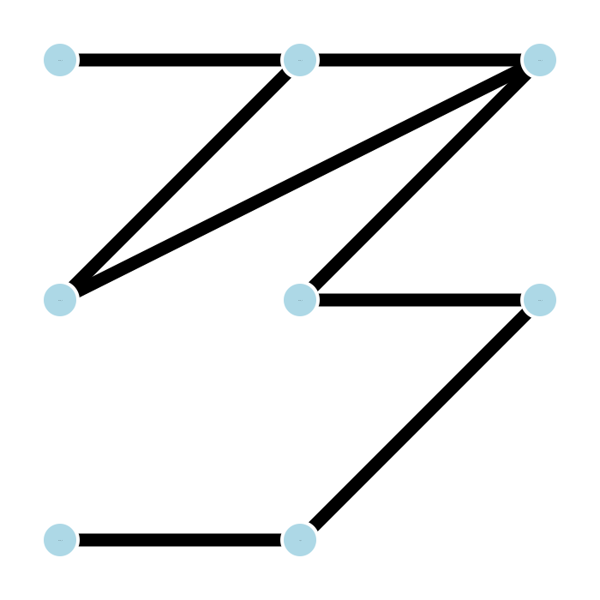
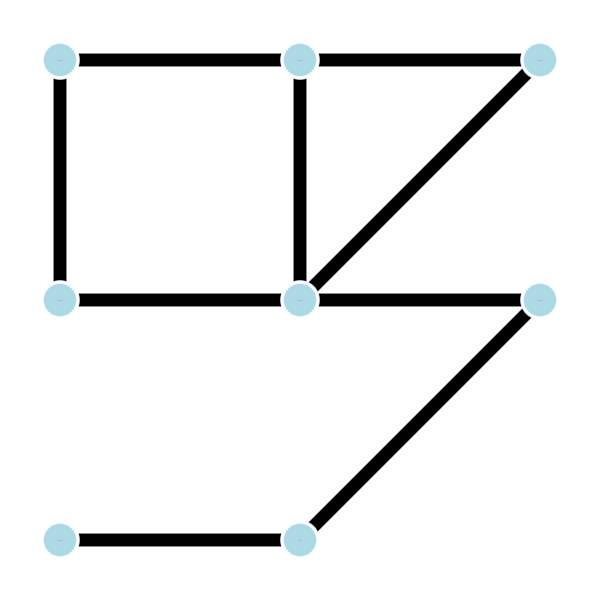
Decoupled house simulation

Changed region(s): [[0.09, 0.09, 0.87, 0.51]]

diff --git a/src/Main.py b/src/Main.py
@@ -1,87 +1,37 @@
-"""
-PYTHON MODULE TO IMPLEMENT THE AUTOMATON AND ITS FUNCTIONALITY
-"""
-
-from datetime import datetime
-import logging
-
-from Room import Room
-from Automaton import Automaton
-from Transition import Transition
-from State import State
-from Action import Action
-from sensors import *
-from actuators import *
+from simulation import Simulation
+from House import House
+from ExampleRooms import ROOMS, GLOBAL_SENSORS, GLOBAL_ACTUATORS
 
 
-logging.basicConfig(
-format = '%(asctime)s - %(filename)s - %(levelname)s - %(message)s',
-level = logging.INFO
-)
-  
-def main():
-    """
-    MAIN METHOD DECLARATION
-    """
+def simulate_house(house):
+    ''' Given a house, runs it in the simulation '''
 
-    # AUTOMATON GENERATION READ METHOD
+    start_simulation(house.room_list, house.global_sensors, house.global_actuators)
 
 
-    # OUTPUT AUTOMATON GENERATION
+def start_simulation(room_list, global_sensors, global_actuators):
+    ''' Starts the simulation given the necessary parameters '''
+    num_vert = len(room_list)
+
+    edge_list = {}
+    edges = []
+
+    for i in range(num_vert):
+        edge_list.update({room_list[i].id:i})
+
+    for room in room_list:
+        if len(room.connection_list) != 0:
+            for i in range(len(room.connection_list)):
+                edges.append([edge_list[room.id], edge_list[room.connection_list[i]]])
+
+    types_used = [room.type for room in room_list]
+    names_used = [room.id for room in room_list]
+
+    sim = Simulation(num_vert, edges, types_used, names_used, room_list, global_sensors,\
+        global_actuators)
+    sim.run()
 
 
-
-    COMBINACION_PRUEBA = "001"
-
-    # TEST AUTOMATON
-    # Sensors
-    sen_presence_01 = SensorPresence("sen_presence_01", False)
-    sen_light_01 = SensorLight("sen_light_01", 11.0, 10.0, "equp")
-    # Sensors list
-    sensors_list = [sen_presence_01, sen_light_01]
-
-    # Actuators
-    act_window_01 = ActuatorWindow("act_window_01", False)
-    act_light_01 = ActuatorLight("act_light_01", False)
-    act_wblind_01 = ActuatorWindowBlind("act_wblind_01", False)
-    act_cold_01 = ActuatorCold("act_cold_01", False)
-    # Actuator list
-    actuators_list = [act_window_01, act_light_01, act_wblind_01, act_cold_01]
-
-    # Actions
-    action_01 = Action(act_window_01, True)
-    action_02 = Action(act_window_01, False)
-    action_03 = Action(act_light_01, True)
-    action_04 = Action(act_light_01, False)
-    action_05 = Action(act_wblind_01, True)
-    action_06 = Action(act_wblind_01, False)
-    action_07 = Action(act_cold_01, True)
-    action_08 = Action(act_cold_01, False)
-
-    # States
-    state_01 = State("estate_01", [action_02, action_04, action_05, action_08])
-    state_02 = State("estate_02", [action_01, action_04, action_05, action_08])
-    state_03 = State("estate_03", [action_02, action_03, action_06, action_07])
-    state_04 = State("estate_04", [action_01, action_04, action_05, action_07])
-
-    # Transitions
-    transition_01 = Transition("001", state_01, state_02)
-    transition_02 = Transition("101", state_02, state_01)
-    transition_03 = Transition("110", state_01, state_02)
-    transition_04 = Transition("010", state_02, state_01)
-
-    # Automatons
-    automaton_01 = Automaton("autom_01", state_01, [transition_01, transition_02])
-
-    # Rooms
-    room_01 = Room("room_01", automaton_01, False, False, 3.0, str(datetime.now().month),
-        22.1, False, 12.0, False, False, False, sensors_list, actuators_list)
-    # END OF TEST AUTOMATON
-
-    print("Current state: " + room_01.automaton.current_state.id)
-    print("Current state: " + room_01.automaton.current_state.id)
-
-
-
-if __name__ == '__main__':
-    main()
+if __name__ == "__main__":
+    house = House('house1', ROOMS, GLOBAL_SENSORS, GLOBAL_ACTUATORS)
+    simulate_house(house)

diff --git a/src/simulation.py b/src/simulation.py
@@ -5,14 +5,6 @@ from constants import IMG_NAME, OFFSET_ICON_Y, OFFSET_LABEL_X_NAME, OFFSET_LABEL
     OFFSET_LABEL_Y_TYPE, OFFSET_LABEL_Y_NAME, OFFSET_VIEW_X, ROOM_FULL_SIZE, WIDTH_DISPLAY,\
     IMG_SIZE, DEVIATION_FACTOR, WHITE_COLOR, BLACK_COLOR, CAPTION, HEIGHT_DISPLAY,\
     HELVETICA_FONT_SIZE_TYPE, HELVETICA_FONT_SIZE_NAME, ROOM_OFFSET, MARGIN_DISPLAY
-from ExampleRooms import ROOMS, NAMES, GLOBAL_SENSORS, GLOBAL_ACTUATORS
-
-
-NUM_VERT = 8
-EDGES = [[0, 1], [2, 3], [1, 2], [1, 3], [4, 2], [4, 5], [6, 7], [7, 5]]
-TYPES = ["H", "H", "P", "H", "H", "P", "H", "H"]
-ROOMS_USED = ROOMS
-NAMES_USED = NAMES
 
 
 class Simulation(object):
@@ -777,9 +769,3 @@ class Simulation(object):
             room.call_automaton()
 
         self.print_info(display_surface)
-
-
-if __name__ == "__main__":
-    sim = Simulation(NUM_VERT, EDGES, TYPES, NAMES_USED, ROOMS_USED, GLOBAL_SENSORS, \
-        GLOBAL_ACTUATORS)
-    sim.run()

diff --git a/src/ExampleRooms.py b/src/ExampleRooms.py
@@ -29,7 +29,7 @@ transition_1_03 = Transition.Transition("111", state_1_01, state_1_02)
 
 automaton_1 = Automaton.Automaton("autom_01", state_1_01, [transition_1_01, transition_1_02, transition_1_03])
 
-room_1 = Room.Room("room", automaton_1, False, False, 3.0, "12:43",
+room_1 = Room.Room("room", "H", automaton_1, False, False, 3.0, "12:43",
     22.1, False, 12.0, False, False, False, [sensor_1_01, sensor_1_02, sensor_1_03],
     [actuator_1_01, actuator_1_02])
 
@@ -47,3 +47,9 @@ NAMES = []
 for i in range(len(ROOMS)):
     ROOMS[i].id += '_' + str(i)
     NAMES.append(ROOMS[i].id)
+
+ROOMS[0].connection_list = ['room_1', 'room_3']
+ROOMS[1].connection_list = ['room_2']
+ROOMS[4].connection_list = ['room_1', 'room_5', 'room_3', 'room_2']
+ROOMS[5].connection_list = ['alt_7']
+ROOMS[7].connection_list = ['room_6']

diff --git a/src/Room.py b/src/Room.py
@@ -2,9 +2,10 @@ import sensors
 
 
 class Room:
-    def __init__(self, id, automaton, presence, rain, light_intensity, time, temperature,
-        smoke, wind, gas, intruders, flood, sensors, actuators):
+    def __init__(self, id, room_type, automaton, presence, rain, light_intensity, time, temperature,
+        smoke, wind, gas, intruders, flood, sensors, actuators, connection_list = []):
         self.id = id
+        self.type = room_type
         self.automaton = automaton
 
         self.presence = presence
@@ -20,6 +21,8 @@ class Room:
 
         self.sensors = sensors
         self.actuators = actuators
+
+        self.connection_list = connection_list
 
 
     def update_sensors(self):

diff --git a/src/House.py b/src/House.py
@@ -1,0 +1,6 @@
+class House:
+    def __init__(self, id, room_list, global_sensors, global_actuators):
+        self.id = id
+        self.room_list = room_list
+        self.global_sensors = global_sensors
+        self.global_actuators = global_actuators
